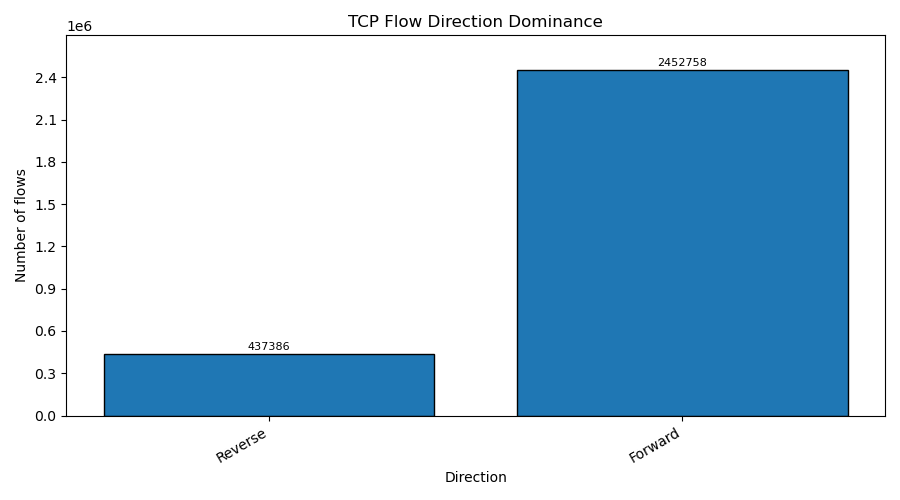
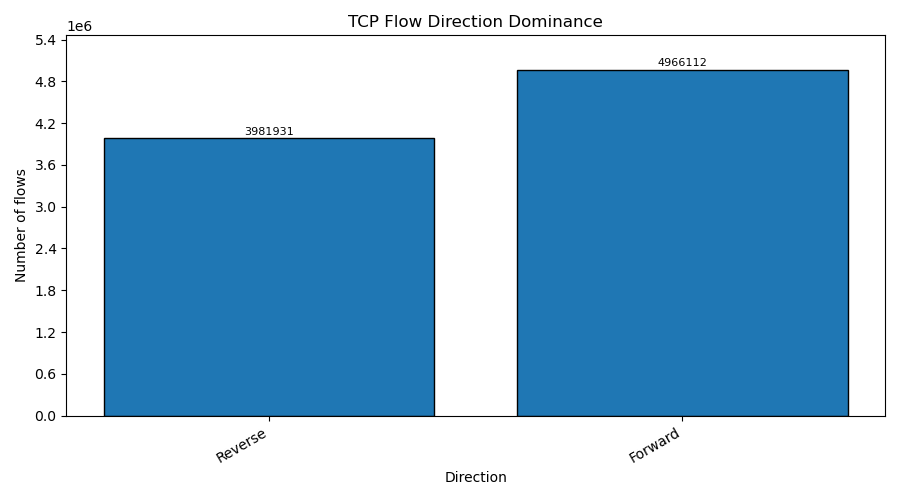
Implemented heatmaps for large flows and  created bucket for 100 percent direction

diff --git a/examples/flow_features/src/main.rs b/examples/flow_features/src/main.rs
@@ -14,7 +14,7 @@ use iris_core::protocols::stream::SessionProto;
 
 // GLOBAL CONSTANTS
 const LARGE_FLOW_MIN_DURATION_SECS: u64 = 20;
-const LARGE_FLOW_MIN_THROUGHPUT_BPS: u64 = 10_000_000; // 10 Mbps
+const LARGE_FLOW_MIN_THROUGHPUT_BPS: u64 = 1_000_000; // 1 Mbps
 
 // GLOBAL HISTOGRAMS
 static H_DURATION: Lazy<Mutex<Histogram<u64>>> =
@@ -37,6 +37,18 @@ static H_DIR_RATIO_PERCENT: Lazy<Mutex<Histogram<u64>>> =
     Lazy::new(|| Mutex::new(Histogram::new(3).unwrap()));
 static H_LARGE_PROTO_PORT_CLASS: Lazy<Mutex<Histogram<u64>>> =
     Lazy::new(|| Mutex::new(Histogram::new(3).unwrap()));
+static H_PURE_DIR_PROTO: Lazy<Mutex<Histogram<u64>>> =
+    Lazy::new(|| Mutex::new(Histogram::new(1).unwrap()));
+static H_PURE_DIR_DST_PORT: Lazy<Mutex<Histogram<u64>>> =
+    Lazy::new(|| Mutex::new(Histogram::new(3).unwrap()));
+static H_PURE_DIR_DURATION: Lazy<Mutex<Histogram<u64>>> =
+    Lazy::new(|| Mutex::new(Histogram::new(3).unwrap()));
+static H_DUR_THR_HTTP: Lazy<Mutex<HashMap<(u64, u64), u64>>> =
+    Lazy::new(|| Mutex::new(HashMap::new()));
+static H_DUR_THR_TLS: Lazy<Mutex<HashMap<(u64, u64), u64>>> =
+    Lazy::new(|| Mutex::new(HashMap::new()));
+static H_DUR_THR_QUIC: Lazy<Mutex<HashMap<(u64, u64), u64>>> =
+    Lazy::new(|| Mutex::new(HashMap::new()));
 
 // HEATMAP COUNTER
 static H_DUR_THR_2D: Lazy<Mutex<HashMap<(u64, u64), u64>>> =
@@ -178,13 +190,47 @@ pub fn record_data(conn: &ConnVolume) {
 
     // Direction ratio analysis
     let total_bytes = conn.fwd_bytes + conn.rev_bytes;
+    // if ratio is 100%, grab port number, duration
 
     if total_bytes > 0 {
-        let forward_ratio_percent =
-            (conn.fwd_bytes * 100) / total_bytes;
+    let forward_ratio_percent =
+        (conn.fwd_bytes * 100) / total_bytes;
 
         let ratio = forward_ratio_percent.min(100);
 
+        // ---- 100% unidirectional tracking ----
+        if ratio == 100 || ratio == 0 {
+            let dir_flag = if ratio == 100 { 0 } else { 1 }; 
+            // 0 = forward-only
+            // 1 = reverse-only
+
+            let proto_flag = match conn.proto {
+                6 => 0,   // TCP
+                17 => 2,  // UDP
+                _ => return,
+            };
+
+            let encoded = proto_flag + dir_flag;
+
+            H_PURE_DIR_PROTO
+                .lock()
+                .unwrap()
+                .record(encoded)
+                .unwrap();
+
+            H_PURE_DIR_DST_PORT
+                .lock()
+                .unwrap()
+                .record(conn.dst_port as u64)
+                .unwrap();
+
+            H_PURE_DIR_DURATION
+                .lock()
+                .unwrap()
+                .record(duration_secs)
+                .unwrap();
+        }
+        
         // TCP: 0–100
         // UDP: 101–201
         let encoded_ratio = match conn.proto {
@@ -208,9 +254,6 @@ pub fn record_data(conn: &ConnVolume) {
     // Initial flow inspection logic
     if duration_secs >= 10 {
         H_DURATION.lock().unwrap().record(duration_secs).unwrap();
-        // encoded throughput = throughput * 2 + proto_index
-        // TCP index = 0
-        // UDP index = 1
 
         let proto_index = match conn.proto {
             6 => 0,
@@ -230,9 +273,32 @@ pub fn record_data(conn: &ConnVolume) {
         let d_bucket = duration_bucket_secs(duration_secs);
         let t_bucket = throughput_bucket_bps(throughput_bps);
 
-        let mut map = H_DUR_THR_2D.lock().unwrap();
-        *map.entry((d_bucket, t_bucket)).or_insert(0) += 1;
+        // ---- Global heatmap ----
+        {
+            let mut map = H_DUR_THR_2D.lock().unwrap();
+            *map.entry((d_bucket, t_bucket)).or_insert(0) += 1;
+        }
+
+        // ---- L7-specific heatmaps ----
+        if let Some(proto) = &conn.l7_proto {
+            match proto {
+                SessionProto::Http => {
+                    let mut map = H_DUR_THR_HTTP.lock().unwrap();
+                    *map.entry((d_bucket, t_bucket)).or_insert(0) += 1;
+                }
+                SessionProto::Tls => {
+                    let mut map = H_DUR_THR_TLS.lock().unwrap();
+                    *map.entry((d_bucket, t_bucket)).or_insert(0) += 1;
+                }
+                SessionProto::Quic => {
+                    let mut map = H_DUR_THR_QUIC.lock().unwrap();
+                    *map.entry((d_bucket, t_bucket)).or_insert(0) += 1;
+                }
+                _ => {}
+            }
+        }
     }
+
 
     // Looking for large flows with high throughput
     if duration_secs >= LARGE_FLOW_MIN_DURATION_SECS
@@ -241,6 +307,8 @@ pub fn record_data(conn: &ConnVolume) {
         // --- Transport + Port Class (for LARGE flows only) ---
 
         // Check which ports have larger flows, separated by TCP / UDP (characterizing protocol/port of large flows)
+
+        // For well known ports track actual port number 
         let port_class_opt = match conn.proto {
             6 => { // TCP
                 let port = conn.dst_port;
@@ -304,6 +372,8 @@ fn dump_hist(path: PathBuf, h: &Histogram<u64>) -> std::io::Result<()> {
     Ok(())
 }
 
+// Make heatmaps for TLS, QUIC, HTTP separately
+// Maybe think about most common ports
 fn dump_2d_hist(
     path: PathBuf,
     map: &HashMap<(u64, u64), u64>,
@@ -341,17 +411,32 @@ fn main() {
     dump_hist(out_dir.join("dst_port.csv"), &H_DST_PORT.lock().unwrap()).unwrap();
     dump_hist(out_dir.join("direction_ratio_percent.csv"), &H_DIR_RATIO_PERCENT.lock().unwrap()).unwrap();
     dump_hist(out_dir.join("large_proto_port_class.csv"), &H_LARGE_PROTO_PORT_CLASS.lock().unwrap()).unwrap();
-
-    dump_hist(
-        out_dir.join("large_flow_l7_protocol.csv"),
-        &H_LARGE_FLOW_L7.lock().unwrap(),
-    ).unwrap();
+    dump_hist(out_dir.join("pure_direction_proto.csv"), &H_PURE_DIR_PROTO.lock().unwrap()).unwrap();
+    dump_hist(out_dir.join("pure_direction_dst_port.csv"), &H_PURE_DIR_DST_PORT.lock().unwrap()).unwrap();
+    dump_hist(out_dir.join("pure_direction_duration.csv"), &H_PURE_DIR_DURATION.lock().unwrap()).unwrap();
+    dump_hist(out_dir.join("large_flow_l7_protocol.csv"), &H_LARGE_FLOW_L7.lock().unwrap()).unwrap();
 
     dump_2d_hist(
         out_dir.join("duration_vs_throughput_2d.csv"),
         &H_DUR_THR_2D.lock().unwrap(),
     )
     .unwrap();
+
+    dump_2d_hist(
+        out_dir.join("duration_vs_throughput_http.csv"),
+        &H_DUR_THR_HTTP.lock().unwrap(),
+    ).unwrap();
+
+    dump_2d_hist(
+        out_dir.join("duration_vs_throughput_tls.csv"),
+        &H_DUR_THR_TLS.lock().unwrap(),
+    ).unwrap();
+
+    dump_2d_hist(
+        out_dir.join("duration_vs_throughput_quic.csv"),
+        &H_DUR_THR_QUIC.lock().unwrap(),
+    ).unwrap();
+
 
     println!("Histograms written to {}", out_dir.display());
 }

diff --git a/examples/plot_hist.py b/examples/plot_hist.py
@@ -139,7 +139,7 @@ def plot_2d_heatmap(rows, title, filename):
 # --------------------------
 if __name__ == "__main__":
 
-    base = Path("hists")
+    base = Path("hists_0213")
     out = Path("plots")
     out.mkdir(exist_ok=True)
 
